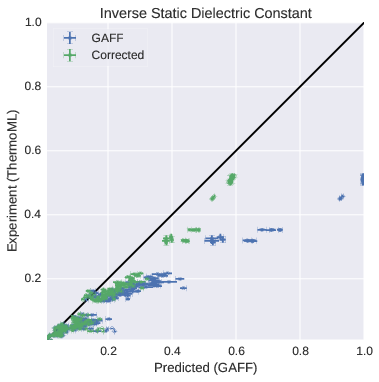
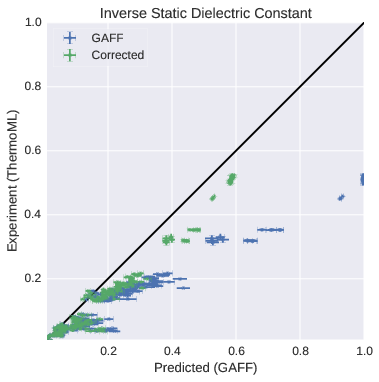
Fixes to dielectric story

diff --git a/index.html b/index.html
@@ -65,7 +65,7 @@ URL: https://code.google.com/p/io-2012-slides
 
     <h1> Engineering a full python stack for biophysical computation</h1>
     <h2></h2>
-    <p> Kyle A. Beauchamp</p>
+    <p> Kyle A. Beauchamp<br/> Slides here: goo.gl/rKGhzZ</p>
   </hgroup>
 </slide>
 
@@ -92,7 +92,7 @@ Jonsson, 2012  A673 T673 V673
     </hgroup>
     <article ><p><center>
 <img height=300 src=figures/multiscale-cartoon.png />
-<video id="sampleMovie" src="movies/shaw-dasatanib-2.mov" loop=\"true\ autoPlay=\"true\  width="512" height="384"></video>
+<video id="sampleMovie" src="movies/shaw-dasatanib-2.mov" loop=\\"true\\ autoPlay=\\"true\\  width="512" height="384"></video>
 </center></p>
 <footer class="source"> 
 Movie Credit: Shan et al: J. Am. Chem. Soc. (2011).  Dasatinib / src
@@ -515,11 +515,23 @@ Beauchamp et al, In Preparation.
       <h3></h3>
     </hgroup>
     <article ><p><center>
-<img height=450 src=figures/dielectrics_thermoml_nocorr.png />
+<img height=450 src=figures/dielectrics_thermoml_nocorr_loglog.png />
 </center></p>
 <footer class="source"> 
 Beauchamp et al, In Preparation.
 </footer></article>
+ 
+</slide>
+
+<slide  >
+  
+    <hgroup>
+      <h2>Fixed charges fail to capture polarizability</h2>
+      <h3>Observed: $\epsilon \approx 2.0$, Predicted: $\epsilon \approx 1.0$, $\Delta \Delta G_{solv} \approx$ 2 kcal / mol</h3>
+    </hgroup>
+    <article ><p><center>
+<img height=400 src=figures/nonpolar_molecules.png />
+</center></p></article>
  
 </slide>
 
@@ -547,7 +559,7 @@ Sales, 2002
       <h3></h3>
     </hgroup>
     <article ><p><center>
-<img height=450 src=figures/dielectrics_thermoml.png />
+<img height=450 src=figures/dielectrics_thermoml_loglog.png />
 </center></p>
 <footer class="source"> 
 Beauchamp et al, In Preparation.

diff --git a/slides.md b/slides.md
@@ -1,5 +1,6 @@
 % title: Engineering a full python stack for biophysical computation
 % author: Kyle A. Beauchamp
+% author: Slides here: goo.gl/rKGhzZ
 % favicon: figures/membrane.png
 
 
@@ -365,13 +366,22 @@ Beauchamp et al, In Preparation.
 title:  Static dielectric constants are consistently underestimated
 
 <center>
-<img height=450 src=figures/dielectrics_thermoml_nocorr.png />
+<img height=450 src=figures/dielectrics_thermoml_nocorr_loglog.png />
 </center>
 
 
 <footer class="source"> 
 Beauchamp et al, In Preparation.
 </footer>
+
+---
+title: Fixed charges fail to capture polarizability
+subtitle: Observed: $\epsilon \approx 2.0$, Predicted: $\epsilon \approx 1.0$, $\Delta \Delta G_{solv} \approx$ 2 kcal / mol
+
+<center>
+<img height=400 src=figures/nonpolar_molecules.png />
+</center>
+
 
 ---
 title: Atom counting predicts molecular polarizability to within 2%
@@ -392,7 +402,7 @@ Sales, 2002
 title: Empirical atomic polarizability corrections reduce bias
 
 <center>
-<img height=450 src=figures/dielectrics_thermoml.png />
+<img height=450 src=figures/dielectrics_thermoml_loglog.png />
 </center>
 
 
